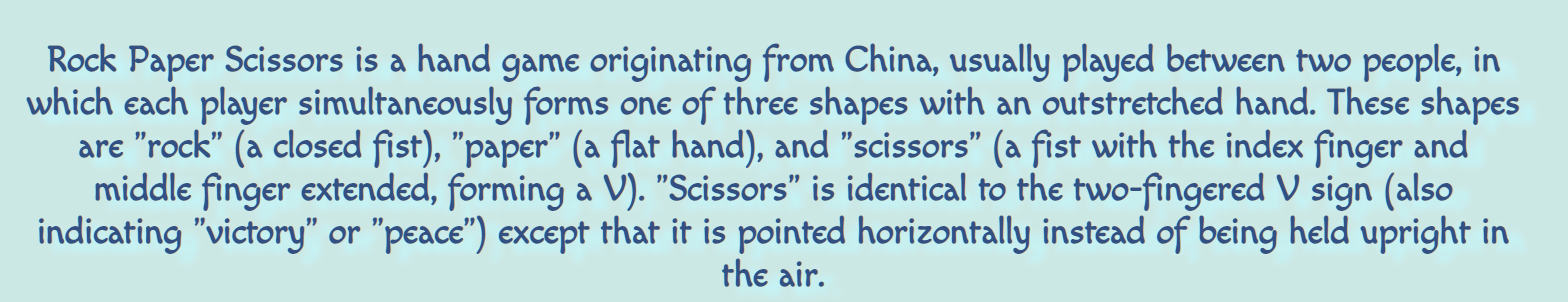
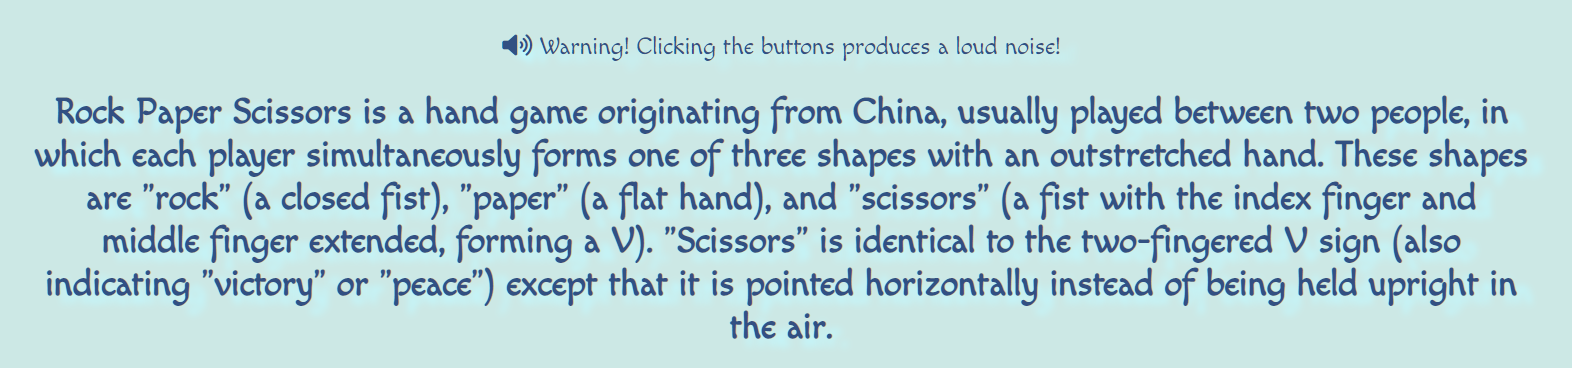
add 'features to implement' to readme.md

Changed region(s): [[0.0, 0.0894, 0.9688, 0.9536]]

diff --git a/README.md b/README.md
@@ -8,6 +8,8 @@
 
 ## Features
 
+### Existing Features
+
 * _Header_
 
     * Featured at the top of the page, the header shows the game name: Rock, Paper, Scissors along with the three shapes formed by outstretched hand.
@@ -38,6 +40,7 @@
 * _Info Area_
 
     * in the info area user will find information about the game, where it is originated from, how many players should play it and the rules of the game.
+    * Also there is a warning to let the user know that clicking any of the buttons will produce a sound.
 
     ![info](assets/images/rps-info.png)
 
@@ -46,6 +49,9 @@
     * The footer is at the bottom of the page containing social media links. All links open in a new tab.
 
     ![footer](assets/images/rps-footer.png)
+
+### Features to implement
+*  Add the lizard, wizard and spock
 
 ## Testing
 
@@ -87,14 +93,14 @@ The live link can be found here - https://gabrielsiket.github.io/Rock-Paper-Scis
 
 * Content
 
-    * The text for the Info was taken from https://en.wikipedia.org/wiki/Rock_paper_scissors
-    * Instructions on how to implement JavaScrips were taken from https://github.com/kubowania
-    * The icons in the footer were taken from Font Awesome
+    * The text for the Info was taken from [wikipedia](https://en.wikipedia.org/wiki/Rock_paper_scissors)
+    * Instructions on how to implement JavaScrips were taken from [kubowania](https://github.com/kubowania) and [sololearn](https://www.sololearn.com/)
+    * The icons in the footer were taken from [Font Awesome](https://fontawesome.com/)
 
 * Media
 
-    * Sounds were taken from https://pixabay.com/ro/
-    * Logo image was taken from https://www.pngkey.com/
+    * Sounds were taken from [pixabay](https://pixabay.com/ro/)
+    * Logo image was taken from [pngkey](https://www.pngkey.com/)
 
 
     
